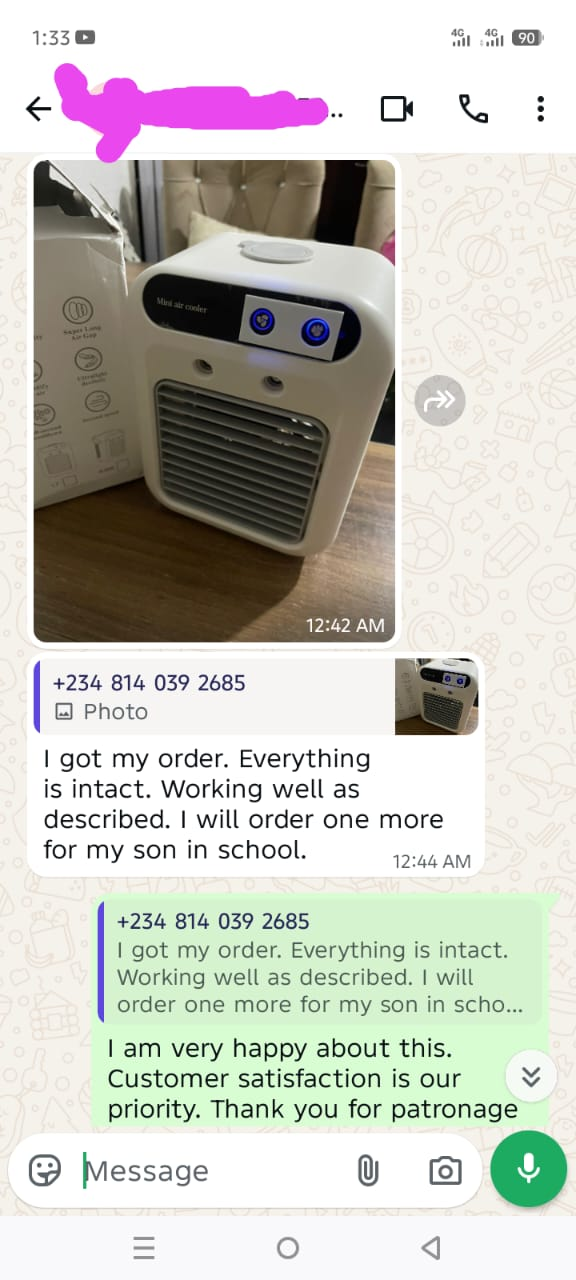
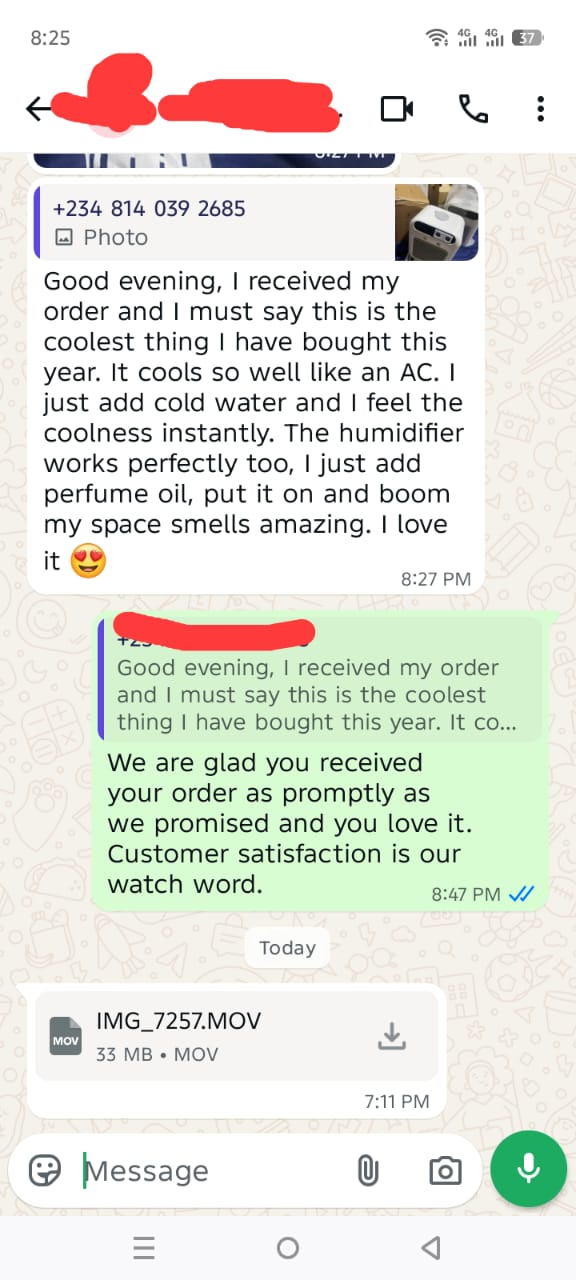
images updated

diff --git a/src/App.jsx b/src/App.jsx
@@ -402,7 +402,7 @@ function Gallery() {
 }
 
 function ChatProofs() {
-  const shots = [7, 8, 9, 10, 11, 12];
+  const shots = [7, 8, 9, 10, 11, ];
 
   return (
     <section className="text-center">
